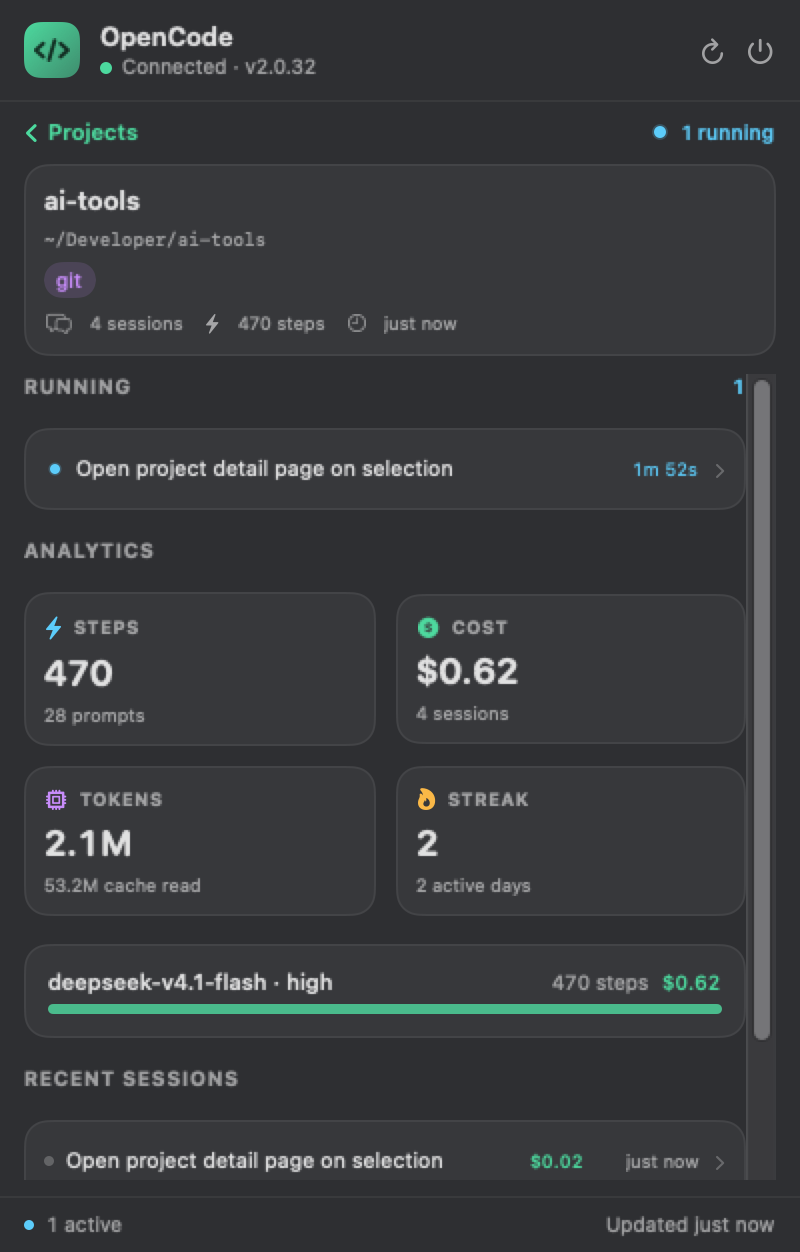
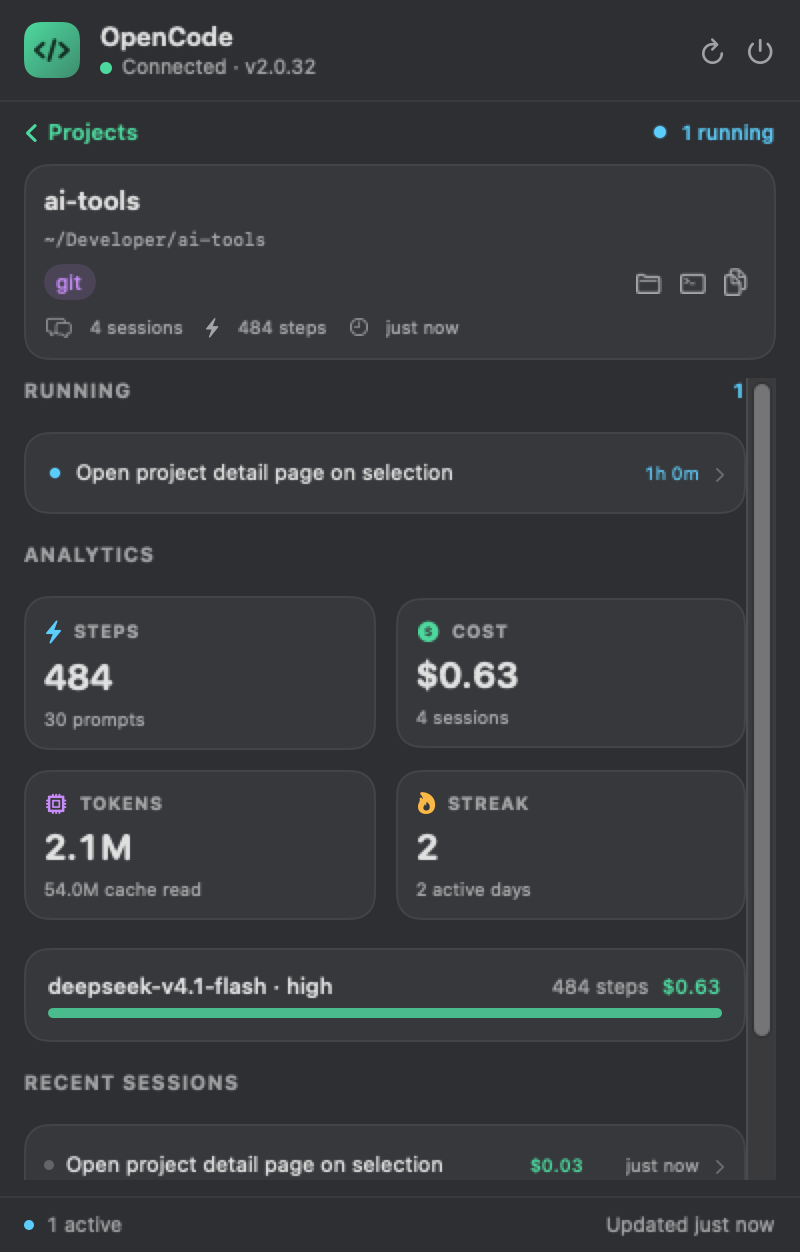
Add project folder, terminal, and copy-path actions

diff --git a/Sources/OpenCodeBar/Views/ProjectDetailView.swift b/Sources/OpenCodeBar/Views/ProjectDetailView.swift
@@ -1,3 +1,4 @@
+import AppKit
 import SwiftUI
 
 /// Full-panel detail for one project: scoped analytics, running work, and
@@ -7,6 +8,8 @@ import SwiftUI
 struct ProjectDetailView: View {
     @EnvironmentObject private var state: AppState
     let project: Project
+
+    @State private var copiedPath = false
 
     private var detail: AppState.ProjectDetail? { state.projectDetails[project.id] }
     private var running: [Session] { state.runningSessions(in: project) }
@@ -116,6 +119,10 @@ struct ProjectDetailView: View {
                         systemImage: "shippingbox.fill"
                     )
                 }
+
+                Spacer(minLength: 4)
+
+                actions
             }
 
             HStack(spacing: 10) {
@@ -130,6 +137,99 @@ struct ProjectDetailView: View {
         }
         .frame(maxWidth: .infinity, alignment: .leading)
         .card(padding: 10)
+        .contextMenu {
+            Button("Open in Finder") { openInFinder() }
+                .disabled(!directoryExists)
+            Button("Open in Terminal") { openInTerminal() }
+                .disabled(!directoryExists)
+            Divider()
+            Button("Copy Path") { copyPath() }
+        }
+    }
+
+    /// Quick actions for the project directory. Kept in the summary card so
+    /// they stay visible while the analytics below scroll.
+    private var actions: some View {
+        HStack(spacing: 2) {
+            actionButton(
+                "folder",
+                help: directoryExists ? "Open in Finder" : "Project folder not found",
+                disabled: !directoryExists
+            ) {
+                openInFinder()
+            }
+
+            actionButton(
+                "terminal",
+                help: directoryExists ? "Open in Terminal" : "Project folder not found",
+                disabled: !directoryExists
+            ) {
+                openInTerminal()
+            }
+
+            actionButton(
+                copiedPath ? "checkmark" : "doc.on.doc",
+                help: copiedPath ? "Path copied" : "Copy path",
+                tint: copiedPath ? Theme.accent : .secondary
+            ) {
+                copyPath()
+            }
+        }
+    }
+
+    private func actionButton(
+        _ icon: String,
+        help: String,
+        tint: Color = .secondary,
+        disabled: Bool = false,
+        action: @escaping () -> Void
+    ) -> some View {
+        Button(action: action) {
+            Image(systemName: icon)
+                .font(.system(size: 11, weight: .semibold))
+                .frame(width: 20, height: 20)
+                .contentShape(Rectangle())
+        }
+        .buttonStyle(.plain)
+        .foregroundStyle(tint)
+        .opacity(disabled ? 0.35 : 1)
+        .disabled(disabled)
+        .help(help)
+    }
+
+    private var directoryURL: URL {
+        URL(fileURLWithPath: project.canonical, isDirectory: true)
+    }
+
+    private var directoryExists: Bool {
+        !project.canonical.isEmpty && FileManager.default.fileExists(atPath: project.canonical)
+    }
+
+    private func openInFinder() {
+        NSWorkspace.shared.open(directoryURL)
+    }
+
+    private func openInTerminal() {
+        guard let terminal = NSWorkspace.shared.urlForApplication(
+            withBundleIdentifier: "com.apple.Terminal"
+        ) else { return }
+        let configuration = NSWorkspace.OpenConfiguration()
+        configuration.activates = true
+        NSWorkspace.shared.open(
+            [directoryURL],
+            withApplicationAt: terminal,
+            configuration: configuration
+        )
+    }
+
+    private func copyPath() {
+        NSPasteboard.general.clearContents()
+        NSPasteboard.general.setString(project.canonical, forType: .string)
+        copiedPath = true
+        Task { @MainActor in
+            try? await Task.sleep(nanoseconds: 1_500_000_000)
+            copiedPath = false
+        }
     }
 
     private var shortPath: String {

diff --git a/docs/index.html b/docs/index.html
@@ -135,7 +135,7 @@
         <article class="card tone-purple reveal">
           <span class="icon"><svg viewBox="0 0 24 24" fill="none" stroke="currentColor" stroke-width="1.8" stroke-linecap="round" stroke-linejoin="round"><path d="M3.5 7.5A2 2 0 0 1 5.5 5.5h4l2 2.4h7A2 2 0 0 1 20.5 10v6.5a2 2 0 0 1-2 2h-13a2 2 0 0 1-2-2z"/><path d="M7 14h10"/></svg></span>
           <h3>Projects</h3>
-          <p>Every project OpenCode has run in, running work first. Open one for a detail page with what's running now, its own steps, cost, tokens, streak and model mix, plus recent sessions.</p>
+          <p>Every project OpenCode has run in, running work first. Open one for a detail page with what's running now, its own steps, cost, tokens, streak and model mix, plus recent sessions — and one-click actions to open its folder or a terminal, or copy the path.</p>
         </article>
 
         <article class="card reveal">

diff --git a/README.md b/README.md
@@ -29,7 +29,8 @@ full **session** view, per-project **analytics**, and a **usage** overview.
   recently active next. Select one to open its detail page: what is running
   right now — with elapsed time, tappable into the session view — plus scoped
   analytics (steps, cost, tokens, streak, model mix) and recent sessions with
-  their cost.
+  their cost. Quick actions open the project in Finder or Terminal and copy its
+  path.
 - Duplicate records for the same directory are merged, and analytics are
   fetched per project from the stats API rather than derived from the session
   list.
